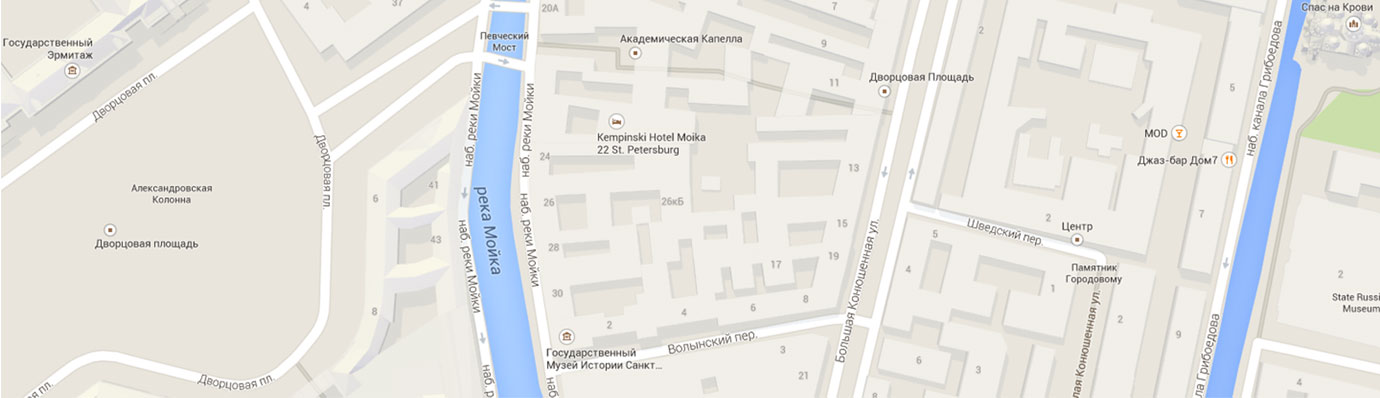
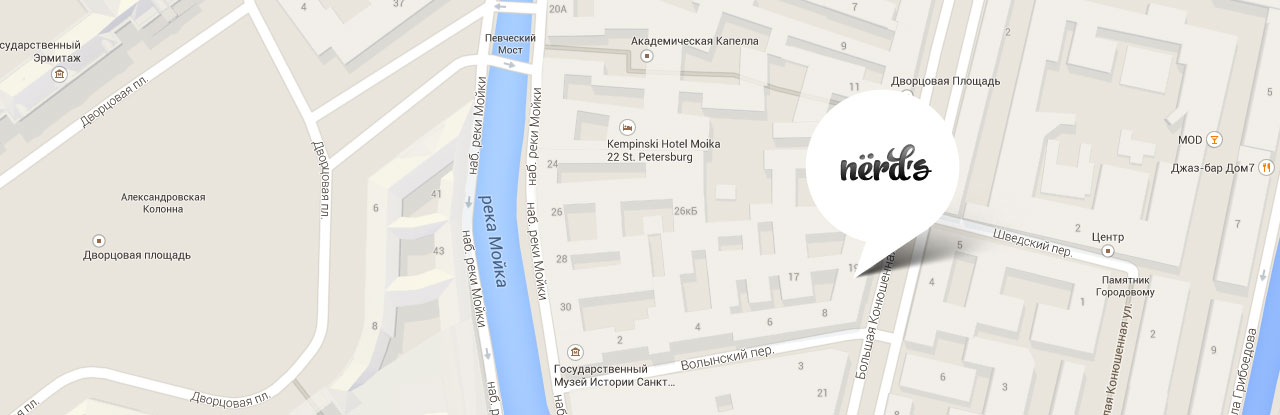
разметил форму abot us + контент-картинки главная

diff --git a/index.html b/index.html
@@ -2,13 +2,13 @@
 <html lang="ru">
   <head>
     <meta charset="utf-8">
-    <title>HTML Academy: Нёрдс</title>
+    <title>Веб-студия "Нёрдс"</title>
   </head>
 <body>
   <header class="menu-header">
     <nav class="menu-navigator">
       <div class="menu-header-logo">
-        <img src="img/logo.jpg" width="450" height="340" alt="Логотип веб-студия Нёрдс">
+        <img src="img/logo.svg" width="160" height="65" alt="Логотип веб-студия Нёрдс">
       </div>
       <ul class="site-navigation">
         <li><a href="#">Студия</a></li>
@@ -17,7 +17,7 @@
         <li><a href="#">Контакты</a></li>
       </ul>
       <ul>
-        <li class="login">Вход</li>
+        <a href="#"><li class="cart">Корзина</li></a>
       </ul>
     </nav>
   </header>  
@@ -120,12 +120,15 @@
       </ul>
     </section>
   <section class="modal-window">
-    <form class="modal modal-write-to-us">
+    <form class="modal modal-write-to-us" action="https://echo.htmlacademy.ru" method="post">
       <h2>Напишите нам</h2>
-      <p>Ваше имя</p>
-      <p>Ваш e-mail</p>
-      <p>Текст письма</p>
-    <!-- место для формы -->
+      <label for="name-field"><p>Ваше имя</p></label>
+      <input type="text" name="name" id="name-field" placeholder="Имя Фамилия">
+      <label for="email-field"><p>Ваш e-mail</p></label>
+      <input type="email" name="email" id="email-field" placeholder="email@example.com">
+      <label for="text-field"><p>Текст письма:</p></label>
+      <textarea name="text" id="text-field" placeholder="В свободной форме"></textarea><br>
+      <input type="submit" value="Отправить">
       <span class="modal-close">X</span>
     </form>
   </section>
@@ -134,6 +137,7 @@
       <h2 class="visually-hidden">Как нас найти</h2>
       <div class="map">
         <span class="map">X</span>
+        <img src="img/map.jpg" width="1440" height="415">
       </div>
       <div class="contacts">
         <h3>NЁRDS DESIGN STUDIO</h3>

diff --git a/catalog.html b/catalog.html
@@ -2,14 +2,14 @@
 <html lang="ru">
   <head>
     <meta charset="utf-8">
-    <title>HTML Academy: Нёрдс</title>
+    <title>Каталог "Нёрдс"</title>
   </head>
 <body>
 <div class="menu">
   <header class="menu-header">
     <nav class="menu-navigator">
       <div class="menu-header-logo">
-        <a href="index.html"><img src="img/logo.jpg" width="450" height="340" alt="Логотип веб-студия Нёрдс"></a>
+        <a href="index.html"><img src="img/logo.svg" width="140" height="55" alt="Логотип веб-студия Нёрдс"></a>
       </div>
       <ul class="site-navigation">
         <li><a href="#">Студия</a></li>
@@ -18,7 +18,7 @@
         <li><a href="#">Контакты</a></li>
       </ul>
       <ul>
-        <li class="shopping-cart">Корзина</li>
+        <a href="#"><li class="shopping-cart">Корзина</li></a>
       </ul>
     </nav>
   </header>
@@ -91,8 +91,8 @@
         <img src="img/forte.jpg" alt="Сайт Forte">
         <div class="info-block">
           <a href="#"><h3>Forte</h3></a>
-          <p>Интетнет магазин с личным кабнетом</p>
-          <a class="buy">10000 р.</a>
+          <p>Отличный макет для личного блога</p>
+          <a class="buy">5000 р.</a>
         </div>
       </li>
       <li class="catalog-item">
